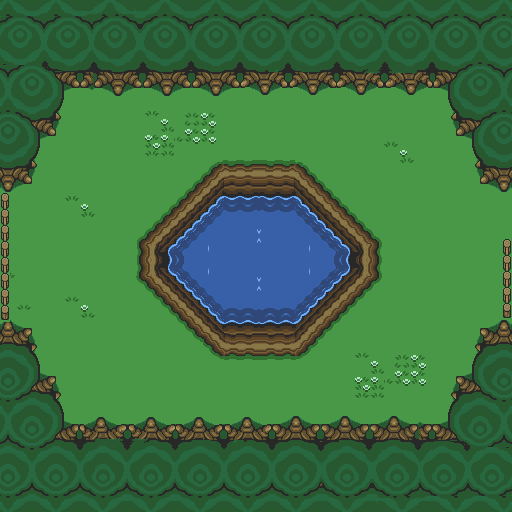
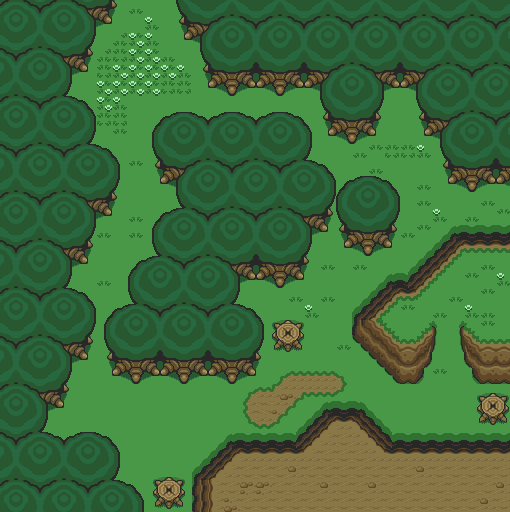
ForrestScene update

diff --git a/zelda/scene/ForrestScene.java b/zelda/scene/ForrestScene.java
@@ -14,113 +14,105 @@ import zelda.karacter.Direction;
  */
 public class ForrestScene extends ZeldaScene
 {
-    private Polygon fenchLeft, lake, fenchRight, upperTreeline1, upperTreeline2, upperTreeline3, lowerTreeline;
+    private Polygon upperTreeline, leftTreeline, upperTreeline2, leftTreeline2, middleTreeline;
+    private Polygon entreeWall1, entreeWall2, lowerWall, deadtree1, deadtree2, deadtree3;
 
-	private Rectangle exitRight = new Rectangle(506, 193, 20, 50);
+	private Rectangle exitRight1 = new Rectangle(506, 185, 20, 50);
+    private Rectangle exitRight2 = new Rectangle(506, 250, 20, 90);
+    private Rectangle exitUp = new Rectangle(100, 0, 90, 20);
 
 
     public ForrestScene(Game game, String entrance)
 	{
         super(game, "images/forrest-scene.png");
 
-        exits.add(exitRight);
+        exits.add(exitRight1);
+        exits.add(exitRight2);
+        exits.add(exitUp);
+
+        // Draw upperTreeline
+        int[] axpos = {507, 485, 472, 451, 445, 426, 412, 388, 375, 354, 331, 317, 291, 271, 245, 219, 210, 197, 508, 508};
+        int[] aypos = {182, 186, 192, 183, 167, 136, 89, 90, 135, 143, 103, 81, 80, 81, 81, 81, 81, 42, 44, 181};
+
+        upperTreeline = new Polygon(axpos, aypos, aypos.length);
+
+        int[] cxpos = {203, 187, 180, 177, 328, 454, 506, 507, 361, 202};
+        int[] cypos = {37, 16, 20, 4, 4, 4, 6, 39, 38, 37};
+
+        upperTreeline2 = new Polygon(cxpos, cypos, cypos.length);
 
 
+        // Draw leftTreeline
+        int[] bxpos = {115, 110, 93, 88, 72, 96, 96, 98, 117, 119, 115, 110, 99, 88, 73, 74, 88, 96, 93, 92, 87, 77, 67, 5, 6, 115};
+        int[] bypos = {4, 23, 52, 73, 93, 114, 127, 145, 162, 185, 199, 213, 219, 261, 271, 286, 297, 310, 332, 343, 360, 361, 396, 398, 5, 5};
 
-        // Draw both fenches
-        int[] axpos = {9, 10, 2, 1, 8};
-        int[] aypos = {170, 299, 299, 172, 172};
+        leftTreeline = new Polygon(bxpos, bypos, bypos.length);
 
-        for (int i = 0; i < aypos.length; i++) {
-            aypos[i] += 20;
-        }
+        int[] dxpos = {67, 60, 45, 71, 103, 120, 126, 142, 144, 5, 6, 66};
+        int[] dypos = {398, 408, 429, 436, 435, 451, 482, 497, 509, 506, 398, 399};
 
-        fenchLeft = new Polygon(axpos, aypos, aypos.length);
-
-
-        int[] cxpos = {510, 511, 505, 504};
-        int[] cypos = {220, 295, 296, 220};
-
-        for (int i = 0; i < cypos.length; i++) {
-            cypos[i] += 20;
-        }
-
-        fenchRight = new Polygon(cxpos, cypos, cypos.length);
+        leftTreeline2 = new Polygon(dxpos, dypos, dypos.length);
 
 
-        // Upper treeline
-        int[] dxpos = {2, 497, 499, 2, 2};
-        int[] dypos = {2, 4, 71, 62, 2};
+        int[] expos = {378, 346, 336, 321, 308, 311, 311, 292, 269, 245, 223, 211, 189, 163, 152, 157, 161, 175, 180, 163, 152, 157, 145, 130, 128, 133, 125, 117, 118, 136, 156, 180, 231, 255, 261, 263, 251, 236, 243, 276, 300, 307, 313, 322, 341, 347, 368, 390, 397, 400, 394, 379, 367};
+        int[] eypos = {179, 184, 183, 164, 161, 149, 132, 116, 115, 114, 114, 119, 114, 118, 138, 162, 183, 189, 207, 214, 230, 254, 260, 273, 293, 302, 308, 357, 372, 382, 376, 379, 380, 372, 357, 320, 308, 302, 279, 286, 279, 263, 238, 230, 232, 245, 254, 245, 231, 203, 188, 179, 179};
 
-        for (int i = 0; i < dypos.length; i++) {
-            dypos[i] += 20;
-        }
-
-        upperTreeline1 = new Polygon(dxpos, dypos, dypos.length);
-
-        int[] expos = {69, 58, 44, 33, 20, 11, 2, 2};
-        int[] eypos = {63, 91, 118, 143, 162, 170, 171, 48};
-
-        for (int i = 0; i < eypos.length; i++) {
-            eypos[i] += 20;
-        }
-
-        upperTreeline2 = new Polygon(expos, eypos, eypos.length);
+        middleTreeline = new Polygon(expos, eypos, eypos.length);
 
 
-        int[] fxpos = {510, 511, 486, 476, 457, 452, 442, 508};
-        int[] fypos = {6, 170, 163, 146, 112, 99, 70, 6};
+        int[] fxpos = {502, 452, 408, 393, 355, 354, 396, 413, 431, 436, 423, 400, 374, 401, 414, 463, 505, 504};
+        int[] fypos = {236, 235, 280, 280, 317, 340, 383, 384, 362, 325, 340, 346, 320, 293, 293, 244, 246, 234};
 
-        for (int i = 0; i < fypos.length; i++) {
-            fypos[i] += 20;
-        }
+        entreeWall1 = new Polygon(fxpos, fypos, fypos.length);
 
-        upperTreeline3 = new Polygon(fxpos, fypos, fypos.length);
+        int[] gxpos = {508, 483, 464, 462, 466, 477, 508, 508};
+        int[] gypos = {345, 344, 329, 342, 363, 382, 385, 345};
 
+        entreeWall2 = new Polygon(gxpos, gypos, gypos.length);
 
+        int[] hxpos = {508, 483, 464, 462, 466, 477, 508, 508, 509, 394, 365, 327, 295, 231, 197, 193, 508, 508};
+        int[] hypos = {345, 344, 329, 342, 363, 382, 385, 345, 442, 443, 411, 408, 440, 443, 474, 510, 508, 441};
 
-        // lower treeline
-        int[] gxpos = {511, 509, 17, 14, 31, 37, 56, 63, 69, 100, 150, 394, 447, 457, 482, 507};
-        int[] gypos = {295, 487, 485, 306, 310, 324, 358, 373, 398, 399, 397, 396, 391, 358, 309, 298};
+        lowerWall = new Polygon(hxpos, hypos, hypos.length);
 
-        for (int i = 0; i < gypos.length; i++) {
-            gypos[i] += 20;
-        }
+        int[] ixpos = {507, 477, 474, 505, 507};
+        int[] iypos = {390, 389, 424, 425, 391};
 
-        lowerTreeline = new Polygon(gxpos, gypos, gypos.length);
+        deadtree1 = new Polygon(ixpos, iypos, iypos.length);
 
+        int[] jxpos = {272, 306, 306, 273, 272};
+        int[] jypos = {322, 322, 352, 353, 322};
 
-        // Draw Lake
-        int[] bxpos = {220, 143, 142, 223, 297, 376, 378, 298, 222};
-        int[] bypos = {144, 221, 257, 334, 335, 258, 222, 145, 144};
+        deadtree2 = new Polygon(jxpos, jypos, jypos.length);
 
-        for (int i = 0; i < bypos.length; i++) {
-            bypos[i] += 20;
-        }
+        int[] kxpos = {153, 186, 186, 153, 153};
+        int[] kypos = {478, 478, 508, 509, 481};
 
-        lake = new Polygon(bxpos, bypos, bypos.length);
+        deadtree3 = new Polygon(kxpos, kypos, kypos.length);
 
-
-
-        // Add polygon objects
-        solids.add(fenchLeft);
-        solids.add(lake);
-        solids.add(fenchRight);
-        solids.add(upperTreeline1);
+        solids.add(upperTreeline);
+        solids.add(leftTreeline);
         solids.add(upperTreeline2);
-        solids.add(upperTreeline3);
-        solids.add(lowerTreeline);
-
+        solids.add(leftTreeline2);
+        solids.add(middleTreeline);
+        solids.add(entreeWall1);
+        solids.add(entreeWall2);
+        solids.add(lowerWall);
+        solids.add(deadtree1);
+        solids.add(deadtree2);
+        solids.add(deadtree3);
 
         // add Link
         gameObjects.add(game.getLink());
 
-        // add WhiteSoldiers
-        //gameObjects.add(new BlueSoldier(game, 70, 223, Direction.UP, 20));
-        //gameObjects.add(new BlueSoldier(game, 116, 340, Direction.DOWN, 20));
-        //gameObjects.add(new WhiteSoldier(game, 256, 118, Direction.LEFT, 20));
-        //gameObjects.add(new WhiteSoldier(game, 375, 358, Direction.DOWN, 20));
+        gameObjects.add(game.getLink());
+        gameObjects.add(new BlueSoldier(game, 448, 400, Direction.UP, 75));
+        gameObjects.add(new BlueSoldier(game, 259, 403, Direction.RIGHT, 50));
+        gameObjects.add(new BlueSoldier(game, 137, 411, Direction.DOWN, 50));
+        gameObjects.add(new BlueSoldier(game, 128, 216, Direction.RIGHT, 50));
 
+        gameObjects.add(new WhiteSoldier(game, 408, 162, Direction.LEFT));
+        gameObjects.add(new WhiteSoldier(game, 162, 85, Direction.DOWN));
 
         handleSwitchScene(entrance);
 
@@ -130,21 +122,46 @@ public class ForrestScene extends ZeldaScene
 	@Override
 	public void handleSwitchScene(Rectangle exit)
 	{
-		if (exit == exitRight)
+		if (exit == exitRight1)
 		{
-			game.setScene(new HouseScene(game, "ForrestScene"));
+			game.setScene(new HouseScene(game, "ForrestScene1"));
+		}
+
+        if (exit == exitRight2)
+		{
+			game.setScene(new HouseScene(game, "ForrestScene2"));
+		}
+
+        if (exit == exitUp)
+		{
+			game.setScene(new HyruleScene(game, "ForrestScene3"));
 		}
 	}
 
 	@Override
 	public void handleSwitchScene(String entrance)
 	{
-		if(entrance.equals("HouseScene"))
+		if(entrance.equals("HouseSceneLeft1"))
 		{
-			moveScene(473, 136);
+			moveScene(10, 1);
 
-			game.getLink().setXHardCore(473);
-			game.getLink().setYHardCore(100);
+			game.getLink().setXHardCore(462);
+			game.getLink().setYHardCore(195);
+		}
+
+        if(entrance.equals("HouseSceneLeft2"))
+		{
+			moveScene(10, 80);
+
+			game.getLink().setXHardCore(459);
+			game.getLink().setYHardCore(200);
+		}
+
+        if(entrance.equals("HyruleScene"))
+		{
+			moveScene(1, 1);
+			game.getLink().setXHardCore(135);
+			game.getLink().setYHardCore(31);
 		}
 	}
 }

diff --git a/zelda/scene/HyruleScene.java b/zelda/scene/HyruleScene.java
@@ -18,10 +18,11 @@ public class HyruleScene extends ZeldaScene
     private Polygon wall, wall1, castlewall1, tree, tree2, castlewall2, castlewall3, downwall;
     private Polygon bush1, bush2, bush3, garden, garden1, garden3, balk;
 
-    private Rectangle hatch		= new Rectangle(910, 160, 5, 5);
-    private Rectangle exitDown  = new Rectangle(672, 1013, 290, 20);
-    private Rectangle stairs		= new Rectangle(713, 215, 14, 14);
-    private Rectangle door		= new Rectangle(497, 247, 30, 30);
+    private Rectangle hatch         = new Rectangle(910, 160, 5, 5);
+    private Rectangle exitDown      = new Rectangle(672, 1013, 290, 20);
+    private Rectangle stairs        = new Rectangle(713, 215, 14, 14);
+    private Rectangle door          = new Rectangle(497, 247, 30, 30);
+    private Rectangle forrestExit	= new Rectangle(121, 989, 50, 20);
 
     public HyruleScene(Game game, String entrance)
 	{
@@ -31,6 +32,7 @@ public class HyruleScene extends ZeldaScene
         exits.add(hatch);
         exits.add(stairs);
         exits.add(door);
+        exits.add(forrestExit);
 
         int[] dxpos = {342, 346, 369, 388, 396, 396, 339};
         int[] dypos = {290, 347, 357, 349, 334, 294, 294};
@@ -267,6 +269,11 @@ public class HyruleScene extends ZeldaScene
         {
             game.setScene(new CastleScene(game, "HyruleScene"));
         }
+
+        if (exit == forrestExit)
+        {
+            game.setScene(new ForrestScene(game, "HyruleScene"));
+        }
 	}
 
 	@Override
@@ -285,6 +292,14 @@ public class HyruleScene extends ZeldaScene
 
 			game.getLink().setXHardCore(250);
 			game.getLink().setYHardCore(200);
+		}
+
+        if(entrance.equals("ForrestScene3"))
+		{
+			moveScene(1, 623);
+
+			game.getLink().setXHardCore(139);
+			game.getLink().setYHardCore(341);
 		}
 	}
 }

diff --git a/zelda/scene/HouseScene.java b/zelda/scene/HouseScene.java
@@ -24,6 +24,7 @@ public class HouseScene extends ZeldaScene
 
 	private Rectangle exitUp   = new Rectangle(155, 0, 300, 20);
 	private Rectangle exitLeft = new Rectangle(0, 180, 20, 50);
+    private Rectangle exitLeft2 = new Rectangle(0, 250, 20, 90);
 
     public HouseScene(Game game, String entrance)
 	{
@@ -31,6 +32,7 @@ public class HouseScene extends ZeldaScene
 
 		exits.add(exitUp);
 		exits.add(exitLeft);
+        exits.add(exitLeft2);
 
         int[] hxpos = {149, 146, 145, 151, 177, 178, 182, 182, 202, 202, 208, 208, 232, 238, 240, 237, 150};
         int[] hypos = {177, 180, 265, 271, 273, 275, 275, 272, 271, 275, 275, 272, 272, 268, 183, 177, 177};
@@ -130,7 +132,12 @@ public class HouseScene extends ZeldaScene
 
         if (exit == exitLeft)
 		{
-			game.setScene(new ForrestScene(game, "HouseScene"));
+			game.setScene(new ForrestScene(game, "HouseSceneLeft1"));
+		}
+
+        if (exit == exitLeft2)
+		{
+			game.setScene(new ForrestScene(game, "HouseSceneLeft2"));
 		}
 	}
 
@@ -153,12 +160,20 @@ public class HouseScene extends ZeldaScene
 			game.getLink().setYHardCore(177);
 		}
 
-        if(entrance.equals("ForrestScene"))
+        if(entrance.equals("ForrestScene1"))
 		{
 			moveScene(0, 100);
 
 			game.getLink().setXHardCore(29);
 			game.getLink().setYHardCore(100);
+		}
+
+        if(entrance.equals("ForrestScene2"))
+		{
+			moveScene(0, 100);
+
+			game.getLink().setXHardCore(29);
+			game.getLink().setYHardCore(165);
 		}
 	}
 }
